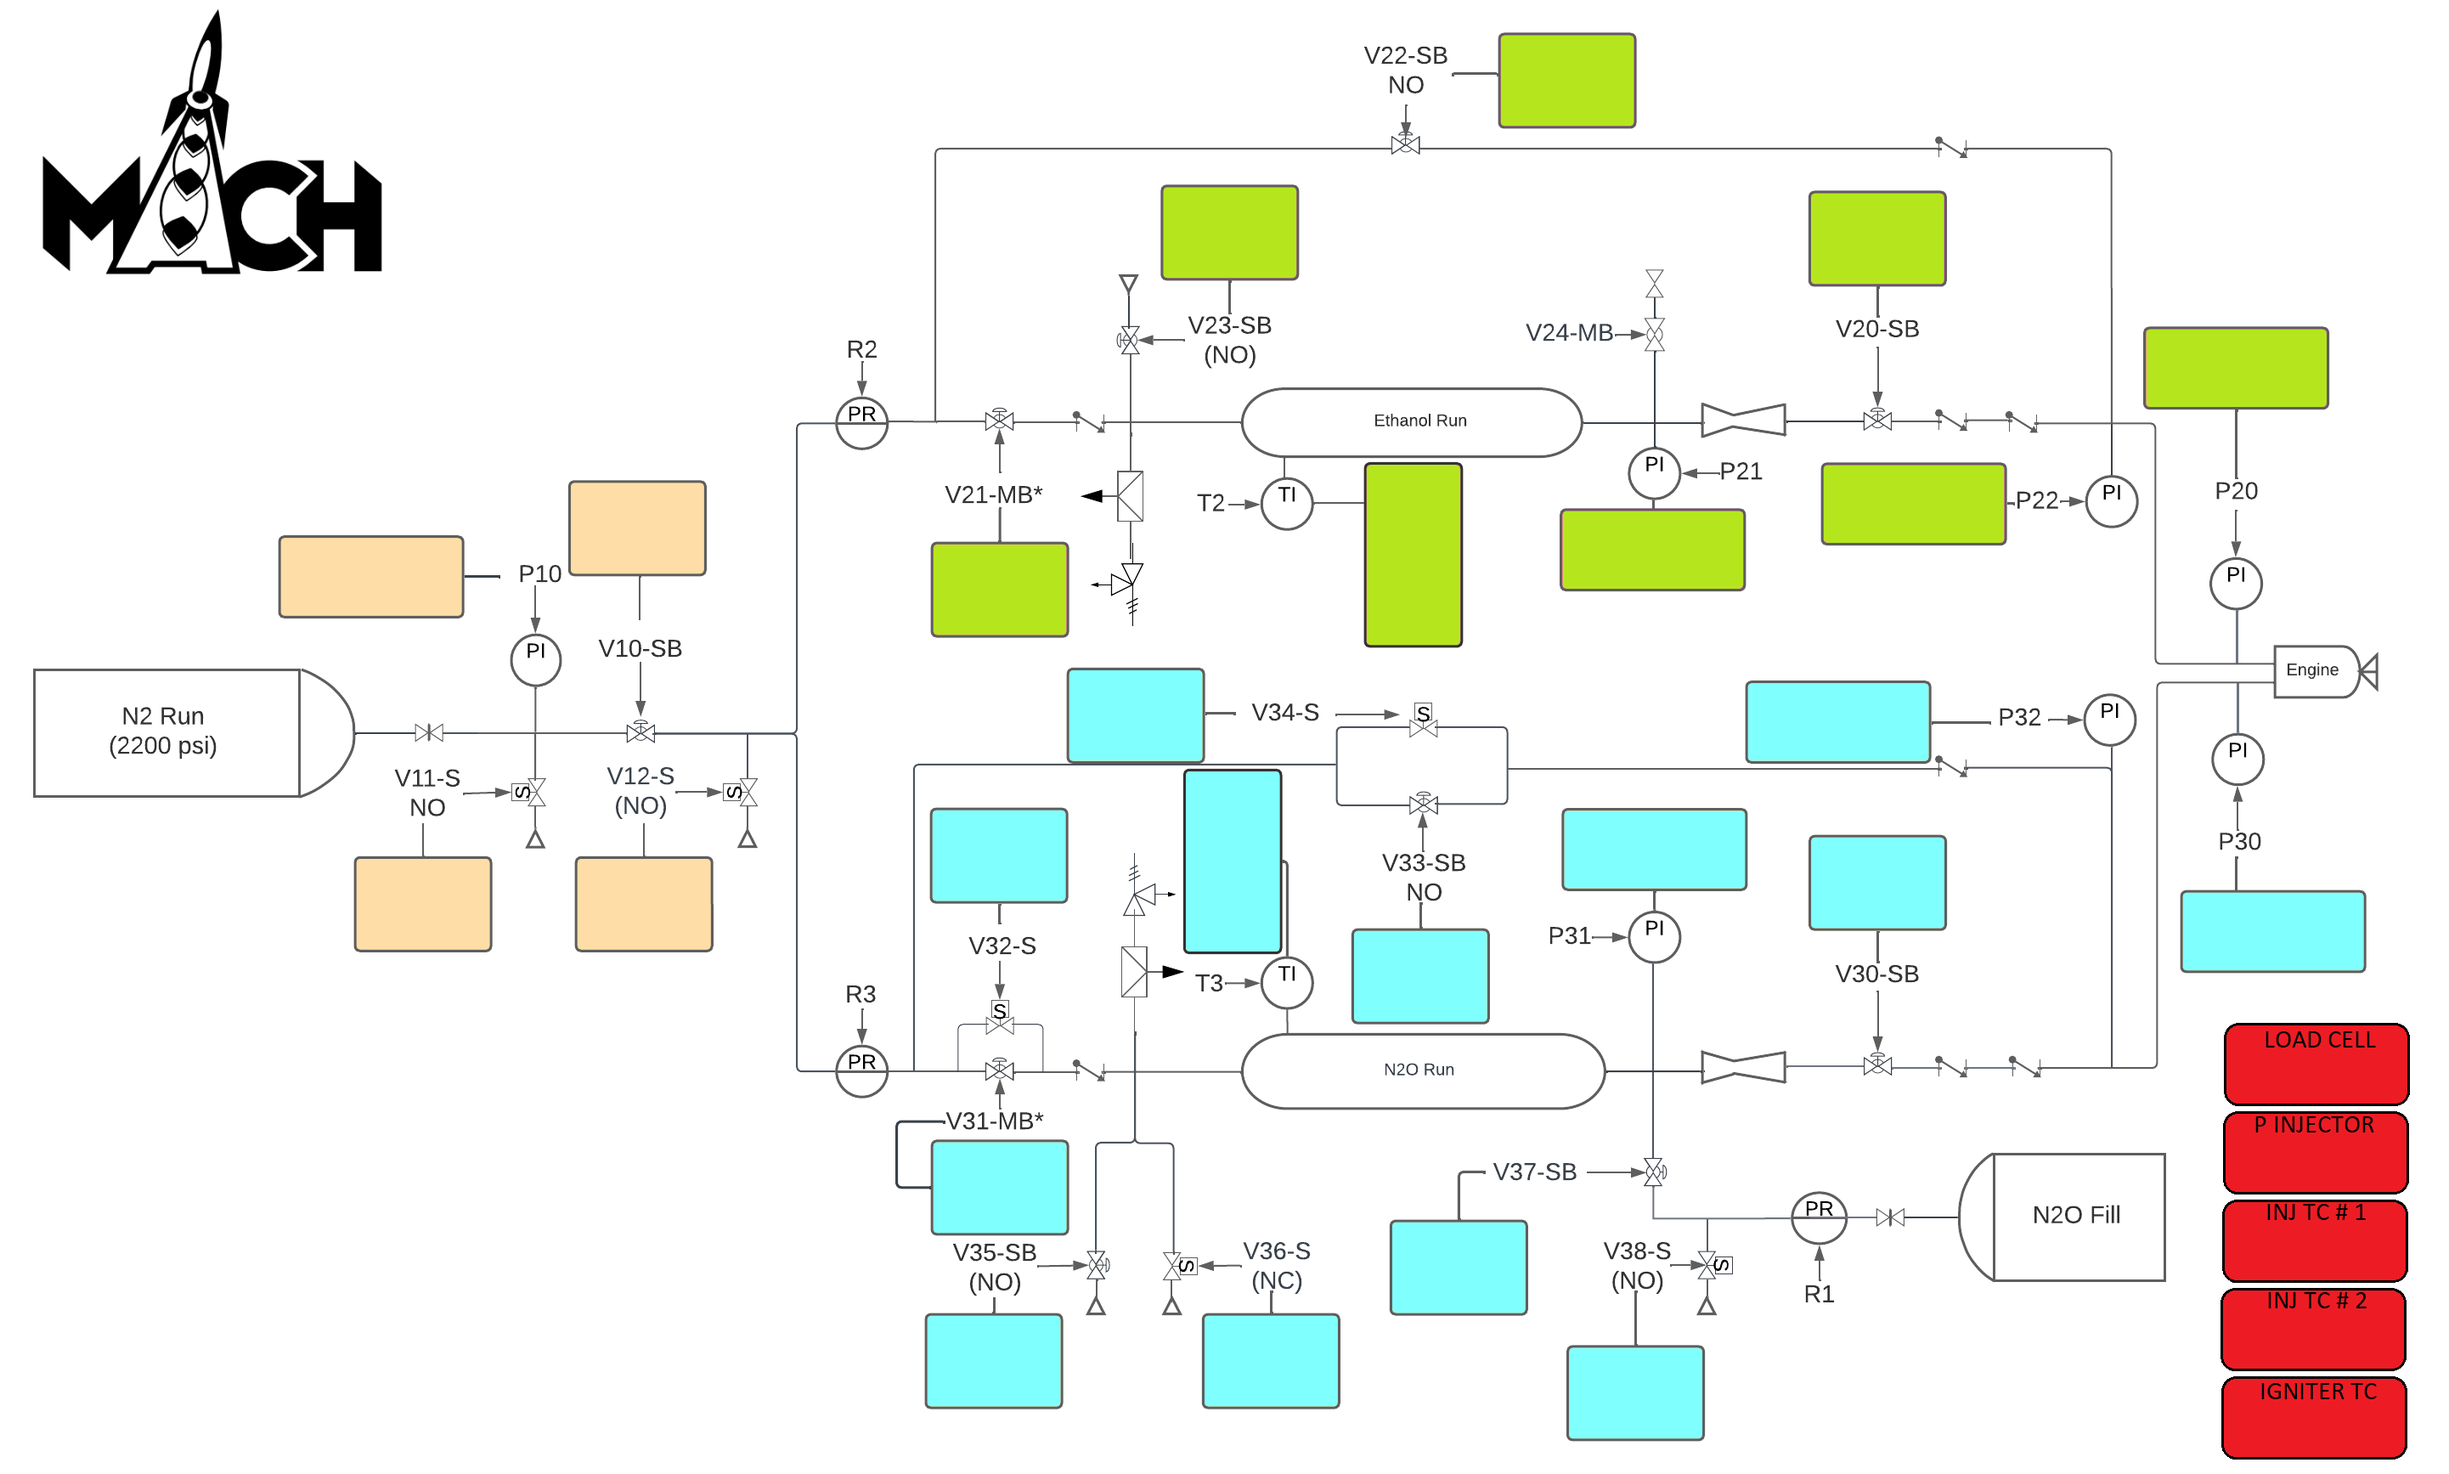
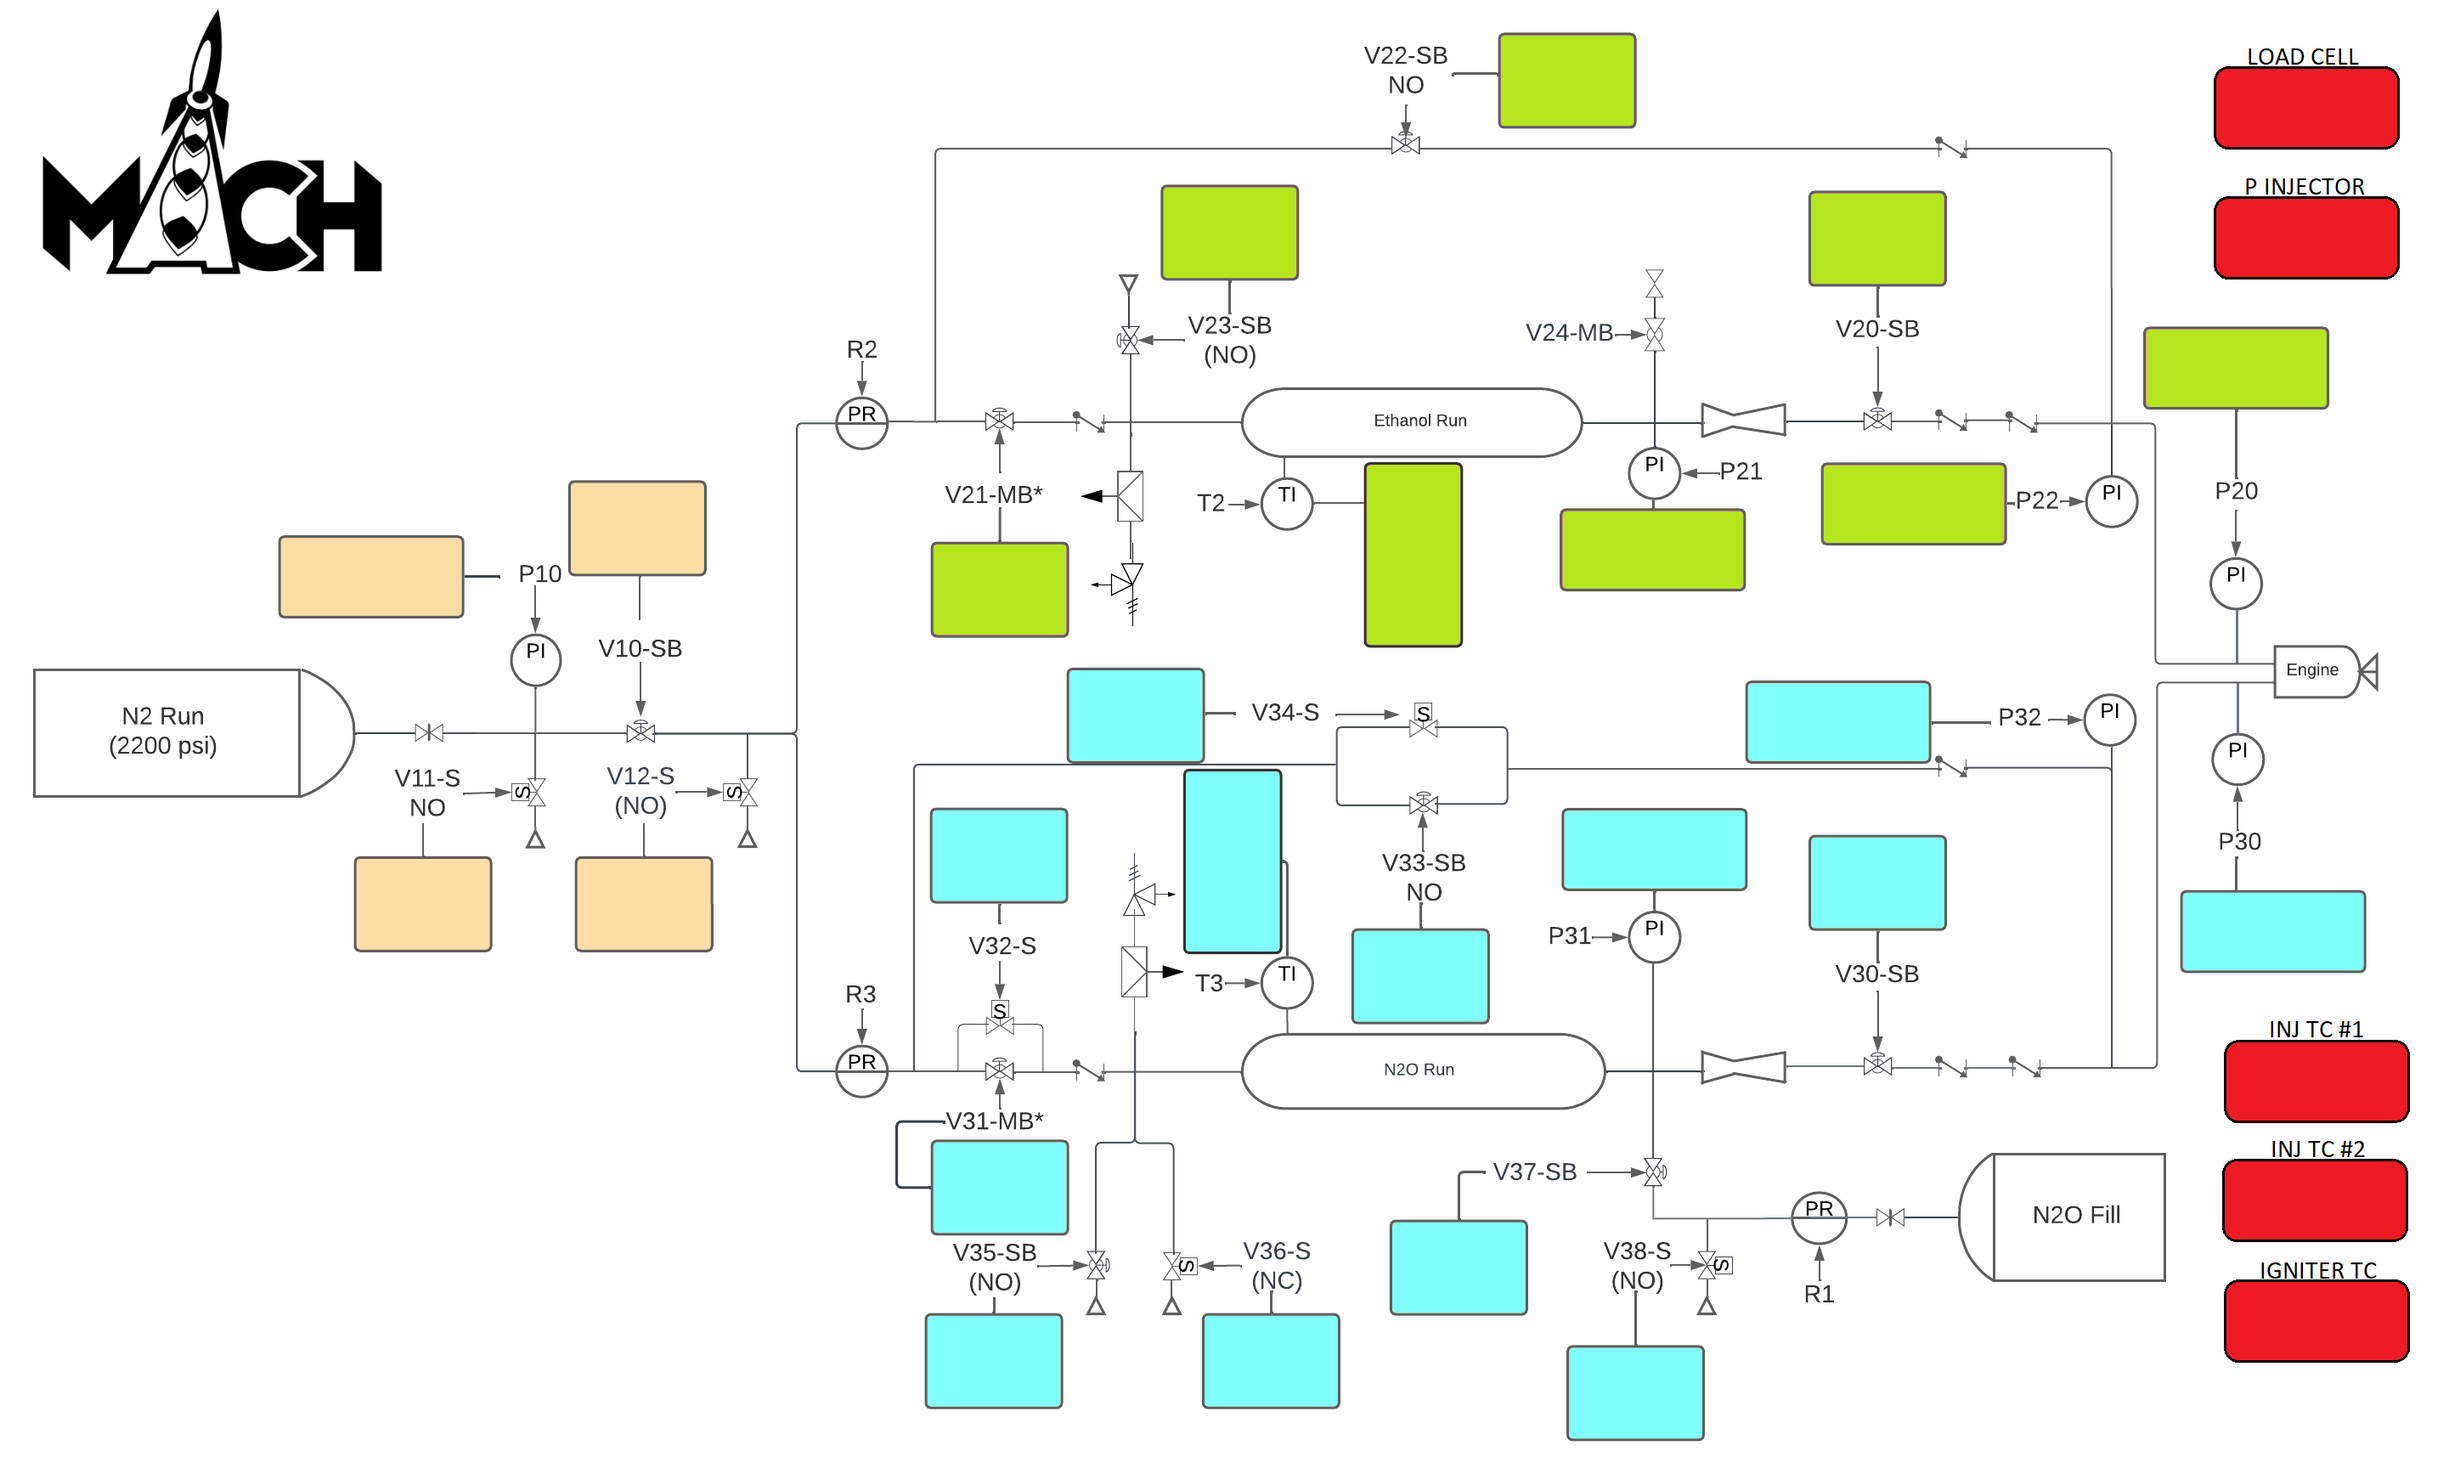
change pid (again again), change pt & t locations, change clock location

Changed region(s): [[0.9053, 0.747, 0.999, 0.996], [0.9053, 0.0311, 0.999, 0.1867], [0.9053, 0.6847, 0.999, 0.7159]]

diff --git a/gui/main.py b/gui/main.py
@@ -39,36 +39,37 @@ def scale_progress_bar(x, y, orientation, length, scale_x, scale_y):
 button_positions = {
     "v11_no": (185, 420),
     "v10": (297, 235),
-    "v12_no": (300, 420),
-    "v20": (946, 95),
+    "v12_no": (301, 420),
+    "v20": (945, 92),
     "v21": (487, 266),
     "v22": (784, 17),
     "v23_no": (607, 92),
     "v30": (945, 405),
-    "v31": (488, 558),
+    "v31": (487, 555),
     "v32": (486, 396),
     "v33": (707, 455),
     "v34": (558, 326),
-    "v35_no": (484, 644),
+    "v35_no": (484, 640),
     "v36": (629, 642),
-    "v37": (729, 598),
-    "v38_no": (820, 659),
+    "v37": (727, 598),
+    "v38_no": (819, 659),
 }
 
 progress_bar_positions = {
-    "p10": (146, 261, "horizontal", 2500),
-    "p20": (818, 250, "horizontal", 2500),
-    "p30": (817, 399, "horizontal", 2500),
-    "p21": (1122, 161, "horizontal", 2500),
-    "p31": (1142, 437, "horizontal", 2500),
-    "p22": (954, 230, "horizontal", 2500),
-    "p32": (914, 337, "horizontal", 2500),
+    "p10": (147, 261, "horizontal", 2500),
+    "p20": (1121, 161, "horizontal", 2500), #818 250
+    "p30": (1141, 437, "horizontal", 2500), 
+    "p21": (817, 250, "horizontal", 2500),
+    "p31": (818, 399, "horizontal", 2500),
+    "p22": (953, 230, "horizontal", 2500),
+    "p32": (913, 337, "horizontal", 2500),
     "t2": (729, 227, "vertical", 1000),
-    "t3": (639, 378, "vertical", 1000),
-    "pinj": (1155, 654, "horizontal", 1000),
-    "inj1": (50, 50, "horizontal", 1000),
-    "inj2": (50, 125, "horizontal", 1000),
-    "ign": (50, 200, "horizontal", 1000),
+    "t3": (635, 377, "vertical", 1000),
+    "pinj": (1158, 97, "horizontal", 1000),
+    "inj1": (1164, 510, "horizontal", 1000),
+    "inj2": (1163, 568, "horizontal", 1000),
+    "ign": (1164, 627, "horizontal", 1000),
+    "lc": (1159, 34, "horizontal", 1000)
 }
 
 sequence_positions = {
@@ -110,7 +111,7 @@ class GUIApp:
 
         # Create the clock label
         self.clock_label = ttk.Label(self.root, font=("Helvetica", 15), background="#FFFFFF", foreground="red")
-        self.clock_label.place(x=10, y=10)
+        self.clock_label.place(x=100, y=200)
         self.update_time()
 
         # Create buttons and progress bars
